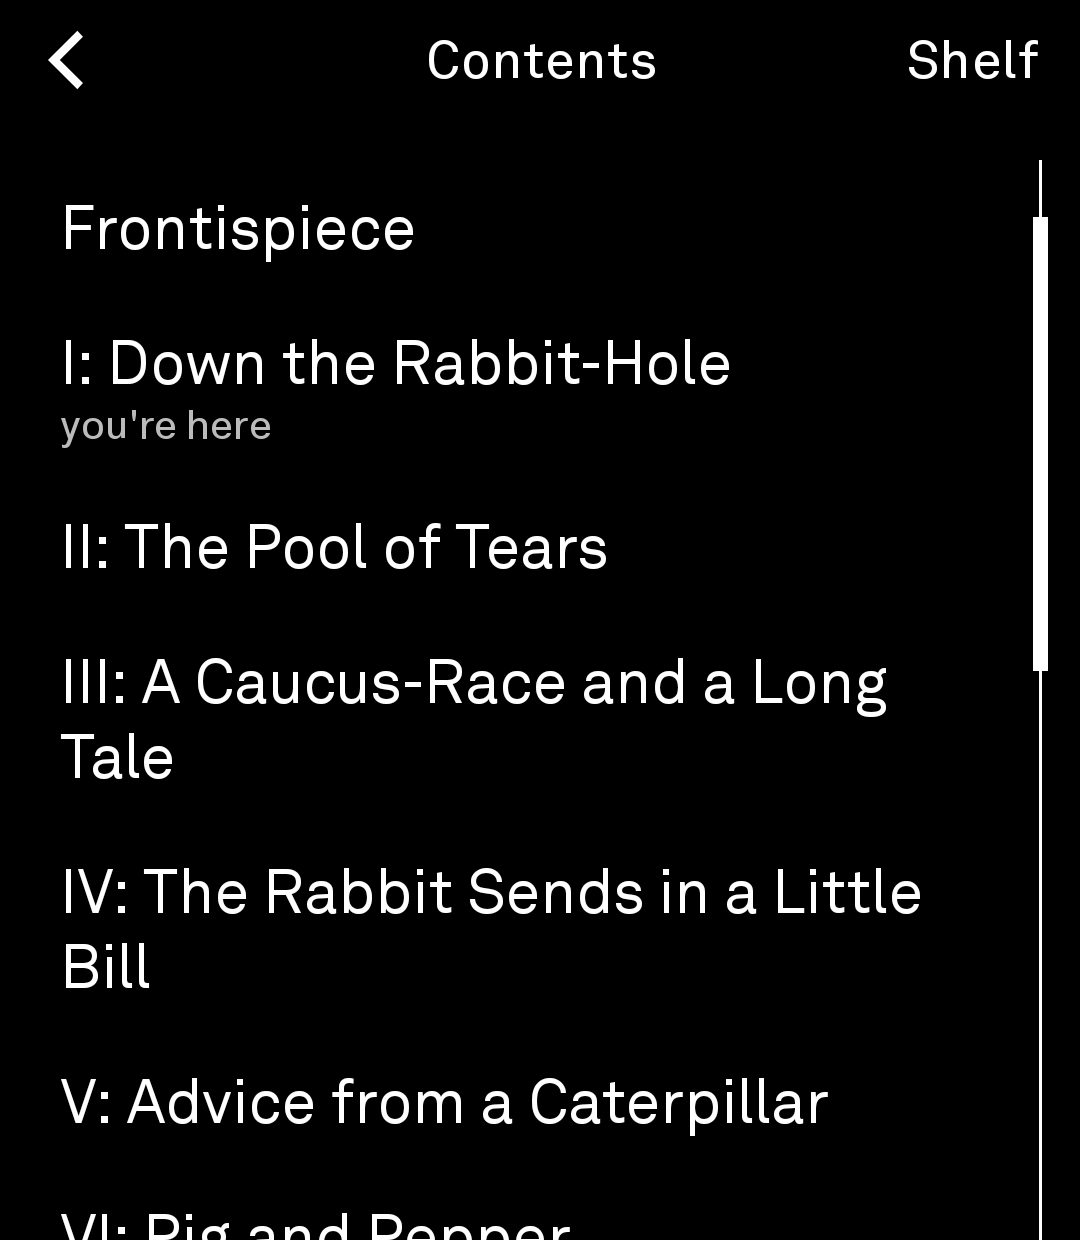
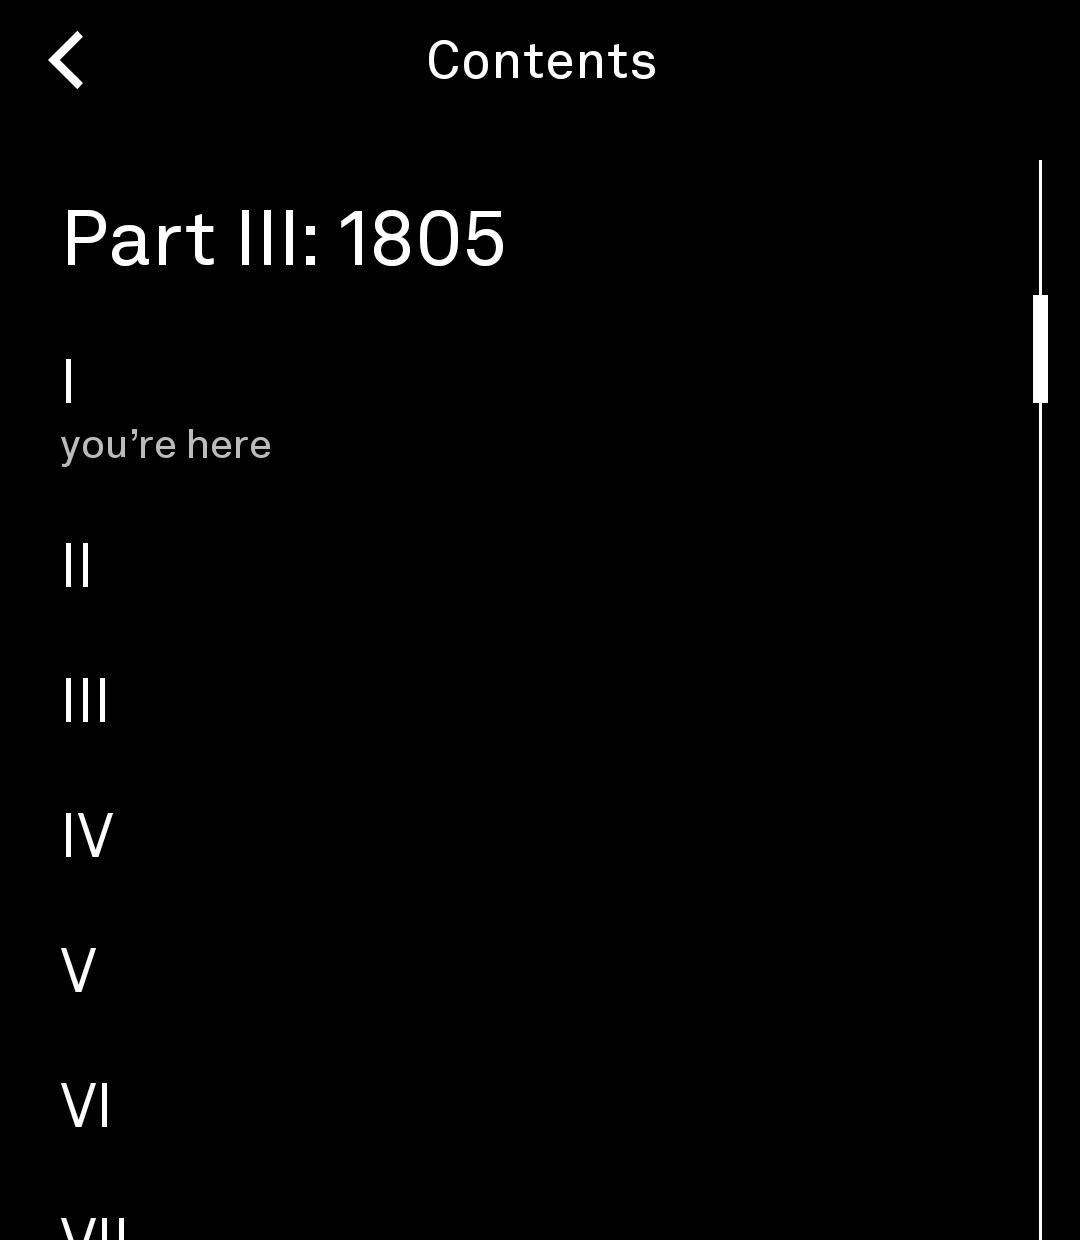
Release v0.2.0 (#47)
Reader 0.2.0: the reading controls (N5). Light builds and signs Tools
from a public commit, so this release is the tagged commit. There is no
APK here; a Light-signed build will follow when Light's developer portal
opens.

`versionName` 0.2.0, `versionCode` 2. `light-sdk` stays at v0.1.2, still
Light's newest tag.

**Reading**
- The Page fills the screen. The top line and footer are gone; a centre
tap shows the controls over the Page, which stays as it is under them
(#41).
- Tap zones are three full-height columns: the left 30% turns back, the
middle 25% shows the controls, the right 45% turns forward. The volume
keys turn as before, and every turn hides the controls (#41).
- The controls: back to the Shelf, the running head and the list icon
for Contents at the top; A−, the minutes left in the Chapter and A+ in
one row at the bottom (#41, #42).
- The running head names the Chapter the Page goes by, with its Part on
a line above when the table of contents nests it ("I. A SCANDAL IN
BOHEMIA" over "II."), and the Book's title in Front matter and on the
end page (#40, #41).
- A sixth font size, 15 sp; 20 sp stays the default. `settings.fontSize`
holds the size in sp, and every save still writes the old `fontStep`, so
an older build reads a size (#44).
- The screen stays on while you read, until 10 minutes pass without a
tap or key press; then the phone's own timeout applies (#45).
- A first-run walkthrough shows the three taps once: next page, back,
[…]

diff --git a/tool/src/main/kotlin/com/yarosz/reader/Network.kt b/tool/src/main/kotlin/com/yarosz/reader/Network.kt
@@ -141,7 +141,7 @@ class InsecureRedirectException(location: String) : IOException("redirected to $
  * the Tool can't read it at run time: PackageManager needs a Context, which a Light Tool can't hold,
  * and the tool module generates no BuildConfig.
  */
-const val VERSION_NAME = "0.1.0"
+const val VERSION_NAME = "0.2.0"
 
 /** Sent on every request, so a server's logs can tell the Tool apart and link to its code. */
 const val USER_AGENT = "Reader/$VERSION_NAME (+https://$REPO_URL)"

diff --git a/README.md b/README.md
@@ -6,26 +6,31 @@ Books from Project Gutenberg and Standard Ebooks are built in, or add your own c
 Tap or press a volume key to turn the page. Your place is kept, at any font size.
 Works offline, with no account and nothing tracked. Copy-protected books from Kindle, Apple Books or Libby won't open.
 
-> **Status: early development (0.1.0).** Reader downloads books from catalogues onto a Shelf, turns
-> pages by tap or volume key, keeps your place in each book at any font size, and lists each book's
-> chapters, with reading controls a centre tap shows. "Reader" on the Shelf opens About, which lists where
-> to find books without copy protection. Next: measuring speed on the phone, then illustrations.
+> **Status: early development (0.2.0).** Reader downloads books from catalogues onto a Shelf, turns
+> pages by tap or volume key, keeps your place in each book at any of six font sizes, and lists each
+> book's chapters under their parts. The page fills the screen; a centre tap shows the reading controls,
+> and a first-run walkthrough shows the taps. "Reader" on the Shelf opens About, which lists where to
+> find books without copy protection. Next: measuring speed on the phone, then illustrations.
 > Not yet signed or listed by Light. A Light Phone III tool built on [Light's SDK](https://github.com/lightphone/light-sdk).
 
 <p>
   <img src="docs/screenshots/chapter-opening.png" width="30%" alt="Chapter one opening: its heading above the first paragraph, the page filling the screen with nothing else on it">
-  <img src="docs/screenshots/controls.png" width="30%" alt="The reading controls over a page: back and the chapter's name at the top; the minutes left in the chapter, A−, A+ and Contents at the bottom; the word 'never' in Literata's true italic">
+  <img src="docs/screenshots/controls.png" width="30%" alt="The reading controls over a page of War and Peace: back, the running head 'Part III: 1805' over the chapter 'I', and the Contents icon at the top; A−, the minutes left in the chapter and A+ at the bottom">
   <img src="docs/screenshots/caption.png" width="30%" alt="An illustration's description shown as a grey italic caption, followed by the story text">
+</p>
+
+<p>
+  <img src="docs/screenshots/walkthrough.gif" width="30%" alt="First-run walkthrough: next page, back, then the controls">
 </p>
 
 <p>
   <img src="docs/screenshots/shelf.png" width="30%" alt="The Shelf: a list of four books, with War and Peace at 99%">
   <img src="docs/screenshots/catalogue-page.png" width="30%" alt="Standard Ebooks' new releases: a search field above a list of titles and authors">
-  <img src="docs/screenshots/contents.png" width="30%" alt="Contents: Alice's chapters in order, Chapter I marked 'you’re here', with Shelf at the top right">
+  <img src="docs/screenshots/contents.png" width="30%" alt="Contents of War and Peace: 'Part III: 1805' as a heading above its chapters, Chapter I marked 'you’re here'">
 </p>
 
-<sub>Reading and Contents on a Light Phone III; the Shelf and a Catalogue on the emulator at the LP3's
-size. Book text is set in Literata; illustrations appear as their descriptions for now.</sub>
+<sub>Reading, the first-run walkthrough and Contents on a Light Phone III; the Shelf and a Catalogue on the
+emulator at the LP3's size. Book text is set in Literata; illustrations appear as their descriptions for now.</sub>
 
 ## Where to find DRM-free books
 

diff --git a/LEDGER.md b/LEDGER.md
@@ -1,6 +1,6 @@
 # Ledger
 
-STATUS: N1, the release path, P (Paginator v2), N2 (reading data store) and N3 (Shelf + Catalogues) done, the code renamed to the glossary, and N4 (Chapters + Progress) done, released as v0.1.0; N5 (Reading controls) A–D merged (#40–#45), E (About) in review; then N6 (measurement), then images
+STATUS: N1, the release path, P (Paginator v2), N2 (reading data store) and N3 (Shelf + Catalogues) done, the code renamed to the glossary, and N4 (Chapters + Progress) done, released as v0.1.0; N5 (Reading controls) done (#40–#46), released as v0.2.0; next is N6 (measurement), then images
 LAST SESSION: 2026-09-30
 
 ## v1 user flow
@@ -38,6 +38,7 @@ Everything above is v1 (N2–N5 below). v2 adds the tap-a-word dictionary.
 | N4 | Chapters + Progress (#22–#32) | Chapters from the table of contents (leaf entries, ADR 0004); the top line names the Chapter the Page goes by, the footer the minutes left in it, the Shelf a percent; the end page comes before Back matter and sets Finished; Contents jumps to a Chapter and back to the Shelf; after a size change a Page starts on a whole word, never above the Place's Chapter (ADR 0007 clarified); div and table text, and Standard Ebooks' dedications, epigraphs and forewords, reach the Page; a QA walkthrough's fixes (#27–#32). 501 unit tests; `mise run ci` green on the emulator and the LP3 |
 | D5 | N4 closing domain pass (#33) | Glossary: Part (new), and a Page goes by one Chapter; amended Front matter (the table of contents decides, not the Book's marking; capitalised as a term), Back matter (a trailing run; a Place can open in it), Spine item (documents that aren't reading matter are left out), Place (the heading and Chapter rules, the Contents jump), Progress (the minutes follow the Page), Finished (what clears it). `contentsAt`'s `place` → `point`; Edition capitalised in comments; `Pass` KDoc says what its anchor is; AGENTS.md names closing-pass tags. ADR 0007's #30 edit is a clarification of the same decision; no new ADR. `scripts/domain-drift.sh` 0 unresolved; tag `domain-pass/n4-close` on the merge commit |
 | v0.1.0 | First release (#39) | Tag `v0.1.0` on the merge commit; `versionName` 0.1.0, `versionCode` 1, as committed (never published before); `light-sdk` at v0.1.2, Light's newest tag. Everything through N4, the User-Agent (#35) and the README screenshots (#36, #37). The GitHub Release carries notes only (RELEASING.md); Light's portal submission waits for the portal |
+| v0.2.0 | Second release | `versionName` 0.2.0, `versionCode` 2; `light-sdk` at v0.1.2, still Light's newest tag. N5: Parts in Contents and the running head (#40), a full-height Page with the controls on a centre tap (#41, #42, #43), a sixth font size, 15 sp (#44), keep awake and the first-run walkthrough (#45), About and an APK without ML Kit, 27.1 → 5.2 MB (#46); the walkthrough GIF in the README. Emulator: v0.1.0's Shelf and Places survive installing this build over it; the minified release runs. Tag `v0.2.0` on the merge commit; notes only on the GitHub Release |
 
 Found while doing N1: Literata's descenders crossed line boundaries, leaking a sliver of the previous
 Page's last line onto the next Page (clipped-band drawing). Fixed with line height 1.4 and centred,
